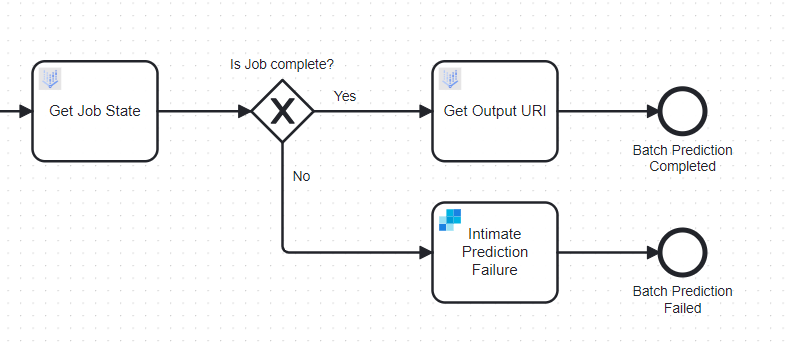
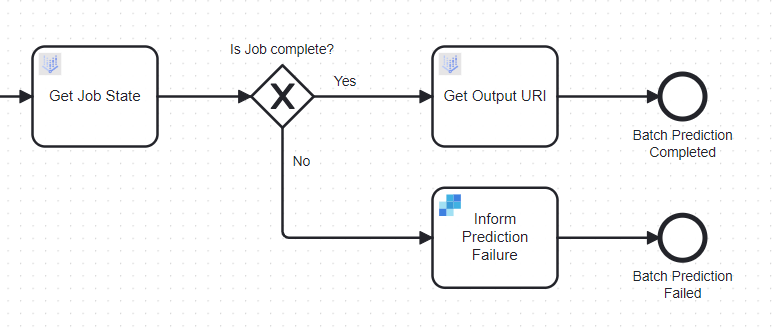
Changes in terms

Changed region(s): [[0.0, 0.1205, 0.9588, 0.9036]]

diff --git a/README.md b/README.md
@@ -24,7 +24,7 @@
 <img src="assets/createBatch.png" alt="createBatch" width="400" />
 </p>
 
-- Job Monitoring: The process instance checks the status and continues polling until the prediction job is complete. If the status is failed, the instance will take the failure intimate path and will end eventually.
+- Job Monitoring: The process instance checks the status and continues polling until the prediction job is complete. If the status is failed, the instance will take the information of failure path and will end eventually.
 
 <p align="center">
 <img src="assets/jobMonitoring.png" alt="jobMonitoring" width="400" />
